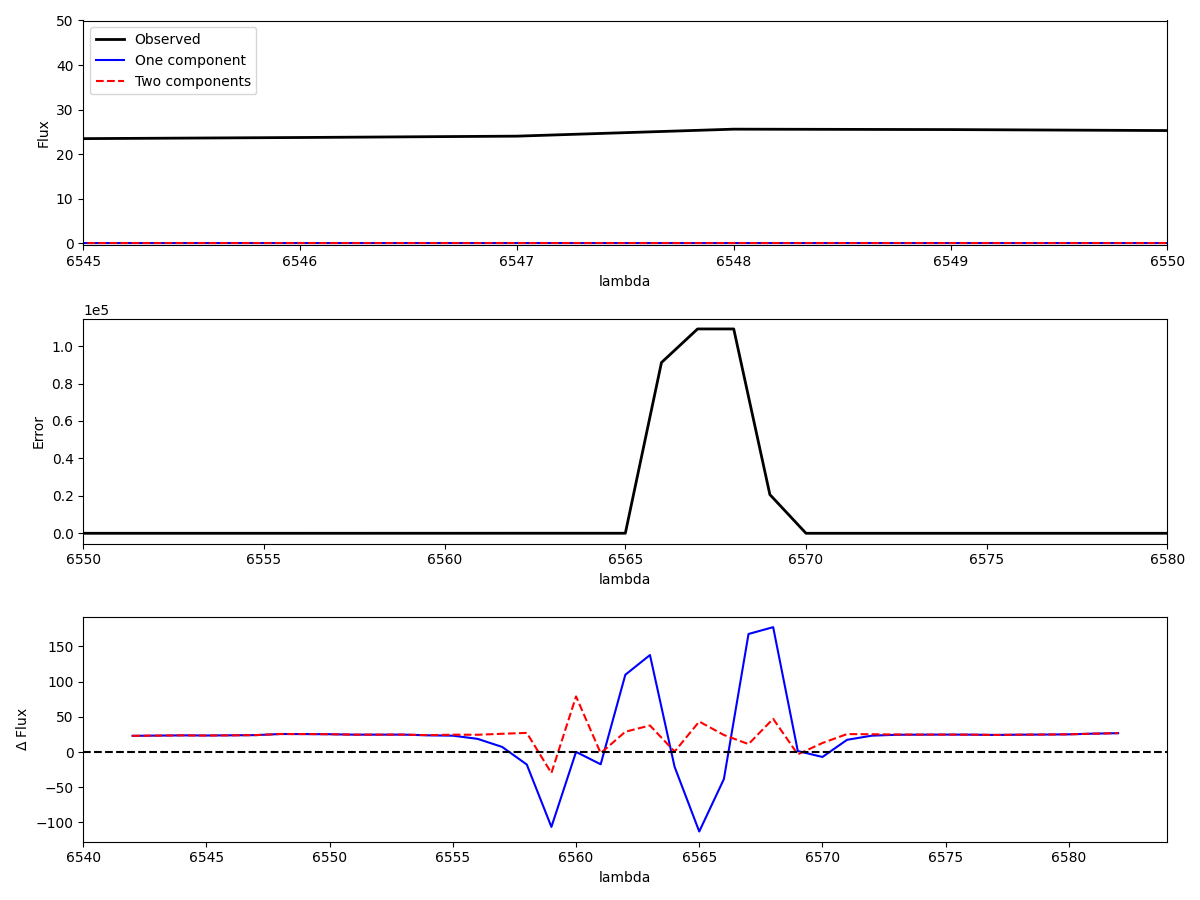
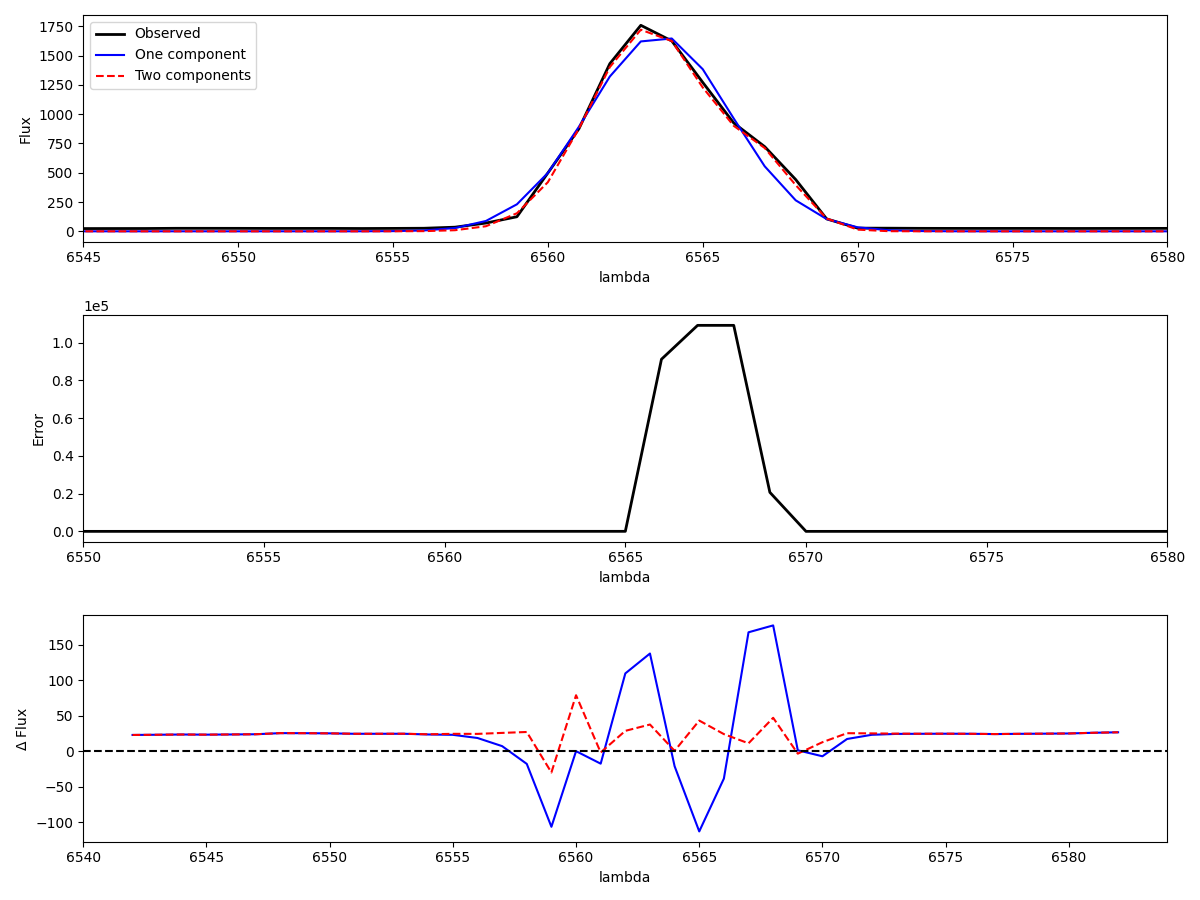
Update plot

diff --git a/Scripts/Gregory_scripts/analysis/spectral_analysis_plotter.py b/Scripts/Gregory_scripts/analysis/spectral_analysis_plotter.py
@@ -21,8 +21,7 @@ class Plotter:
                        self.analyzer.F0_2_bin * np.exp(-(self.analyzer.lam_ex - self.analyzer.l0_2_bin)**2 / (2 * self.analyzer.s0_2_bin**2)) / np.sqrt(2 * np.pi * self.analyzer.s0_2_bin**2)
         
         plt.plot(self.analyzer.lam_ex, self.model_line_2, 'r--')
-        plt.xlim([6545, 6550])
-        plt.ylim([-0.5, 50])
+        plt.xlim([6545, 6580])
         plt.xlabel('lambda')
         plt.ylabel('Flux')
         plt.legend(['Observed', 'One component', 'Two components', 'Two components',], loc='upper left')
